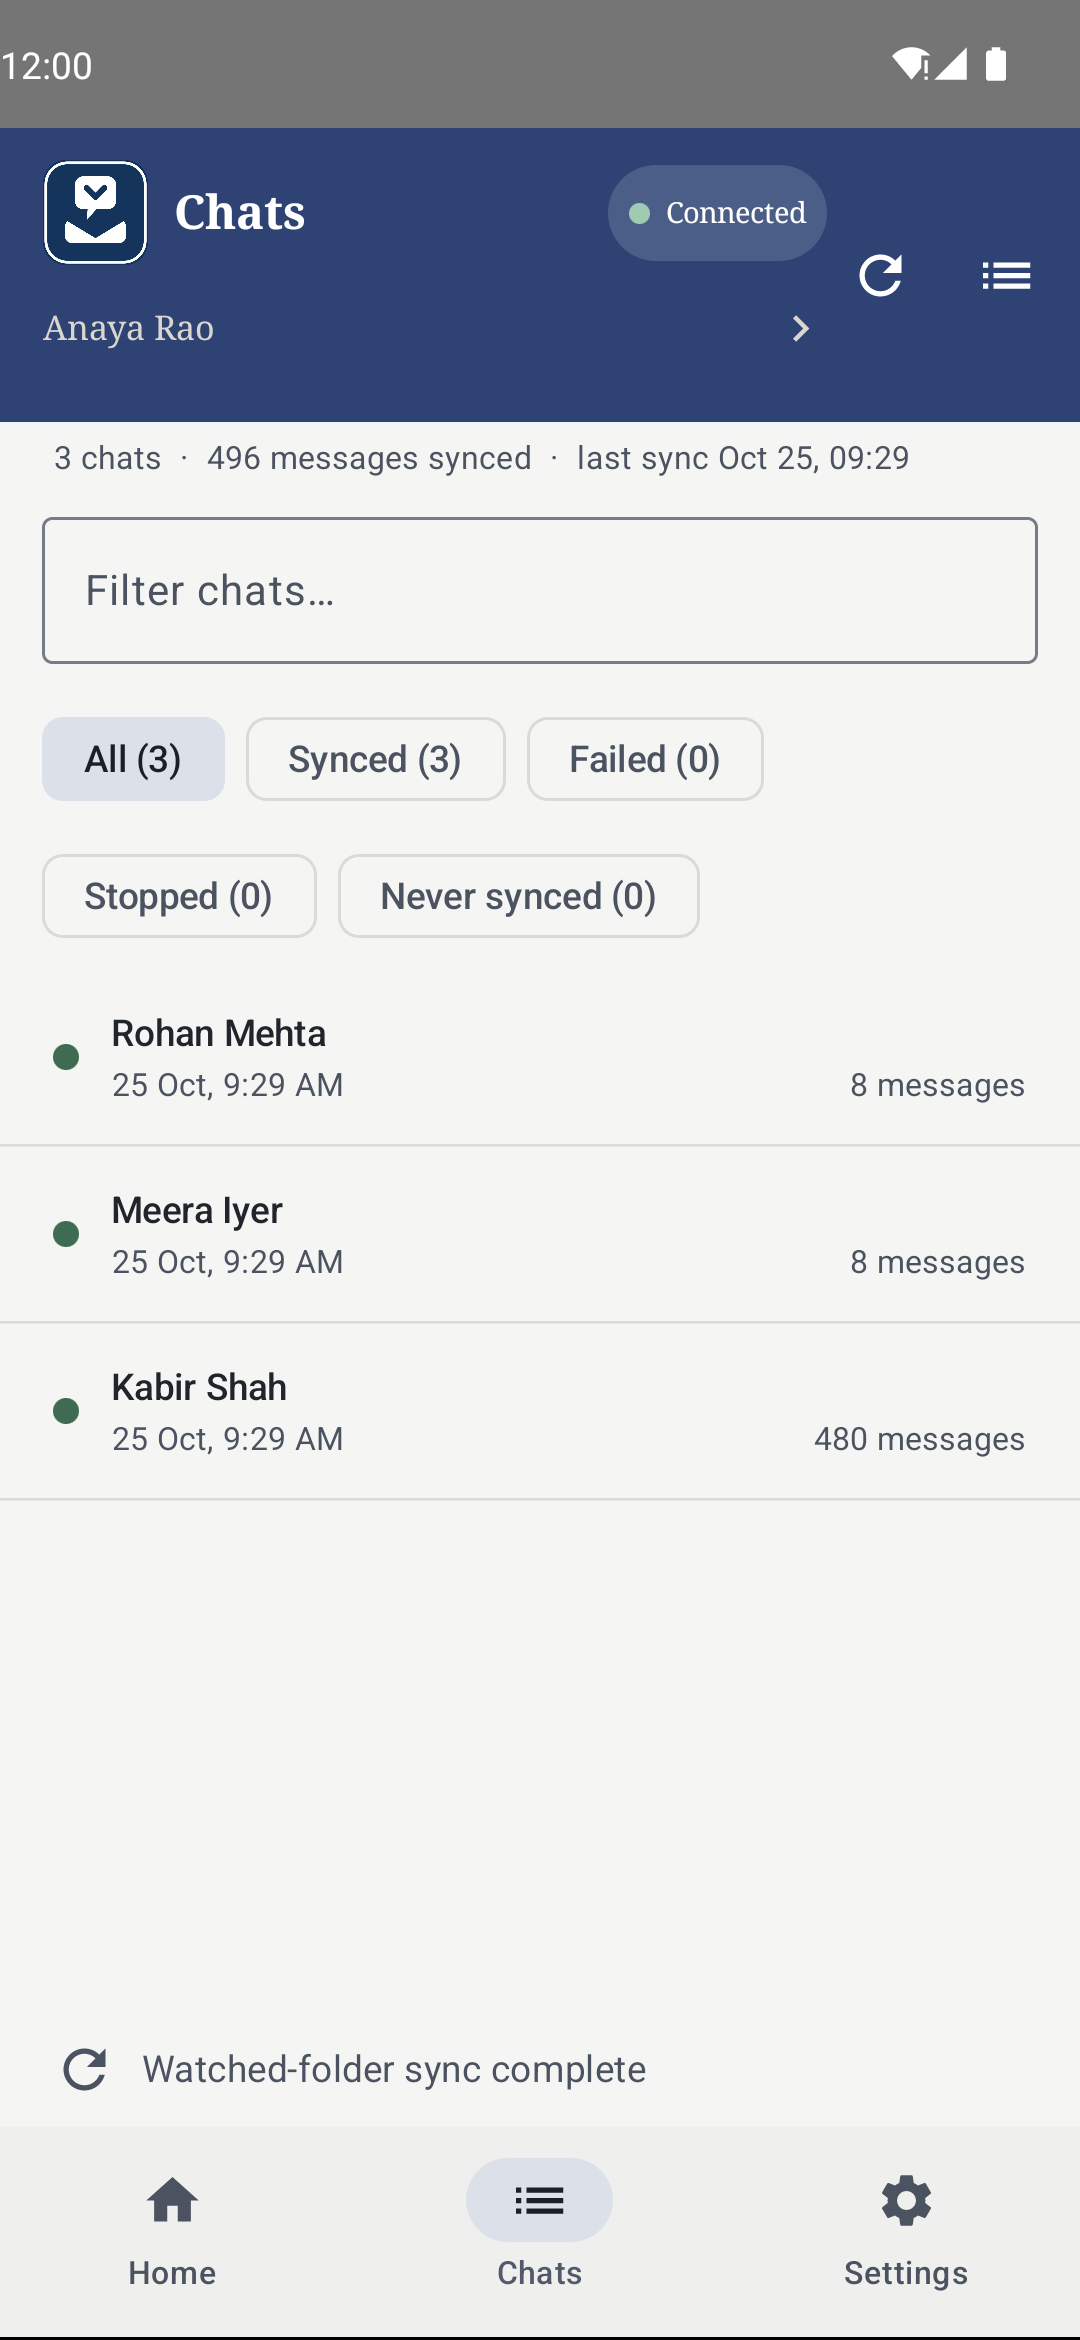
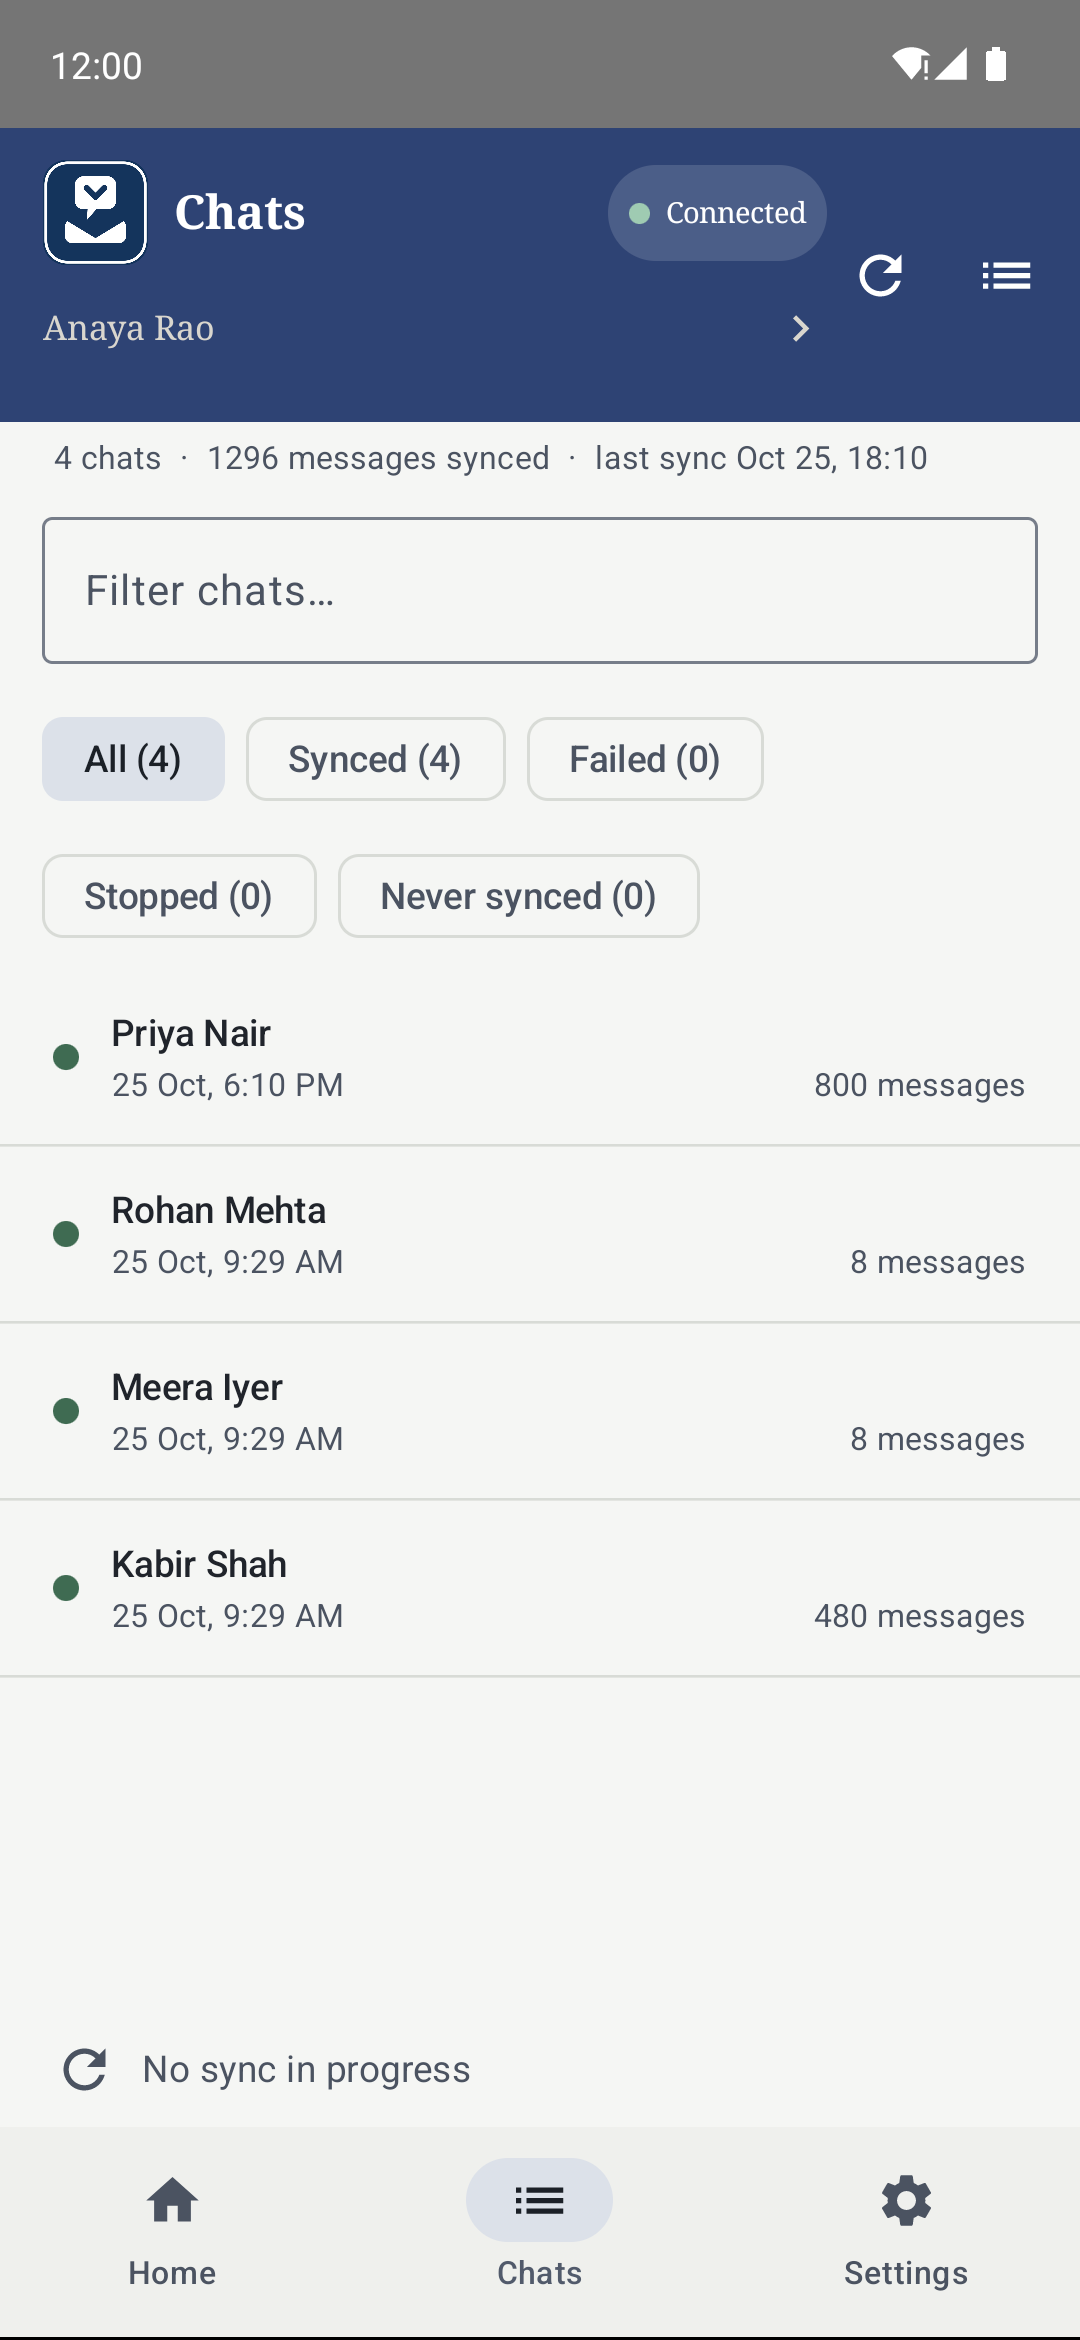
Release 3.0.5 (versionCode 51) (#163)
* Release 3.0.5 (versionCode 51)

Version bump, changelog entry and store release notes for 3.0.5.

* CHANGELOG 3.0.5: tighten the DOC-03 line

* Release 3.0.5: retake Chats and Help screenshots

---------

diff --git a/CHANGELOG.md b/CHANGELOG.md
@@ -4,6 +4,14 @@ This file was started with the 2.2.0 release. Earlier releases are described
 by their own commits and tags (`git log`, `git tag -l`) and by the per-release
 notes in `fastlane/metadata/android/en-US/changelogs/`.
 
+## 3.0.5
+
+Released 2026-11-10 (versionCode 51). A same-minute message fix, clearer counts, and a corrected answer about photos.
+
+- BUG-23: a new message sent in the same minute as the last one the app filed is no longer left out of the next sync. A message already filed is still skipped; a chat with linked (renamed) names keeps the earlier, stricter rule (#159).
+- UX-08: Home and the Sync log say "not new" instead of "already there" for messages skipped because they are already in the mailbox (#160). Each chat now shows everything filed for it across all runs, on the chat page, in the Chats list and in the footer total, rather than the last run only. The import preview now says "No photos or files in this export." when there is no media, or how many photos or files were left out when the export says so (#162).
+- DOC-03: Help and the user guide now say that a later export with media only brings attachments for newer messages. To get older photos and files, use Reset on that chat after deleting its mail, then export with media and sync, and the answer on exporting now advises Include media the first time (#158, #161).
+
 ## 3.0.4
 
 Released 2026-11-04 (versionCode 50). A notice for skipped oversize exports, and a sample chat on the public site.
